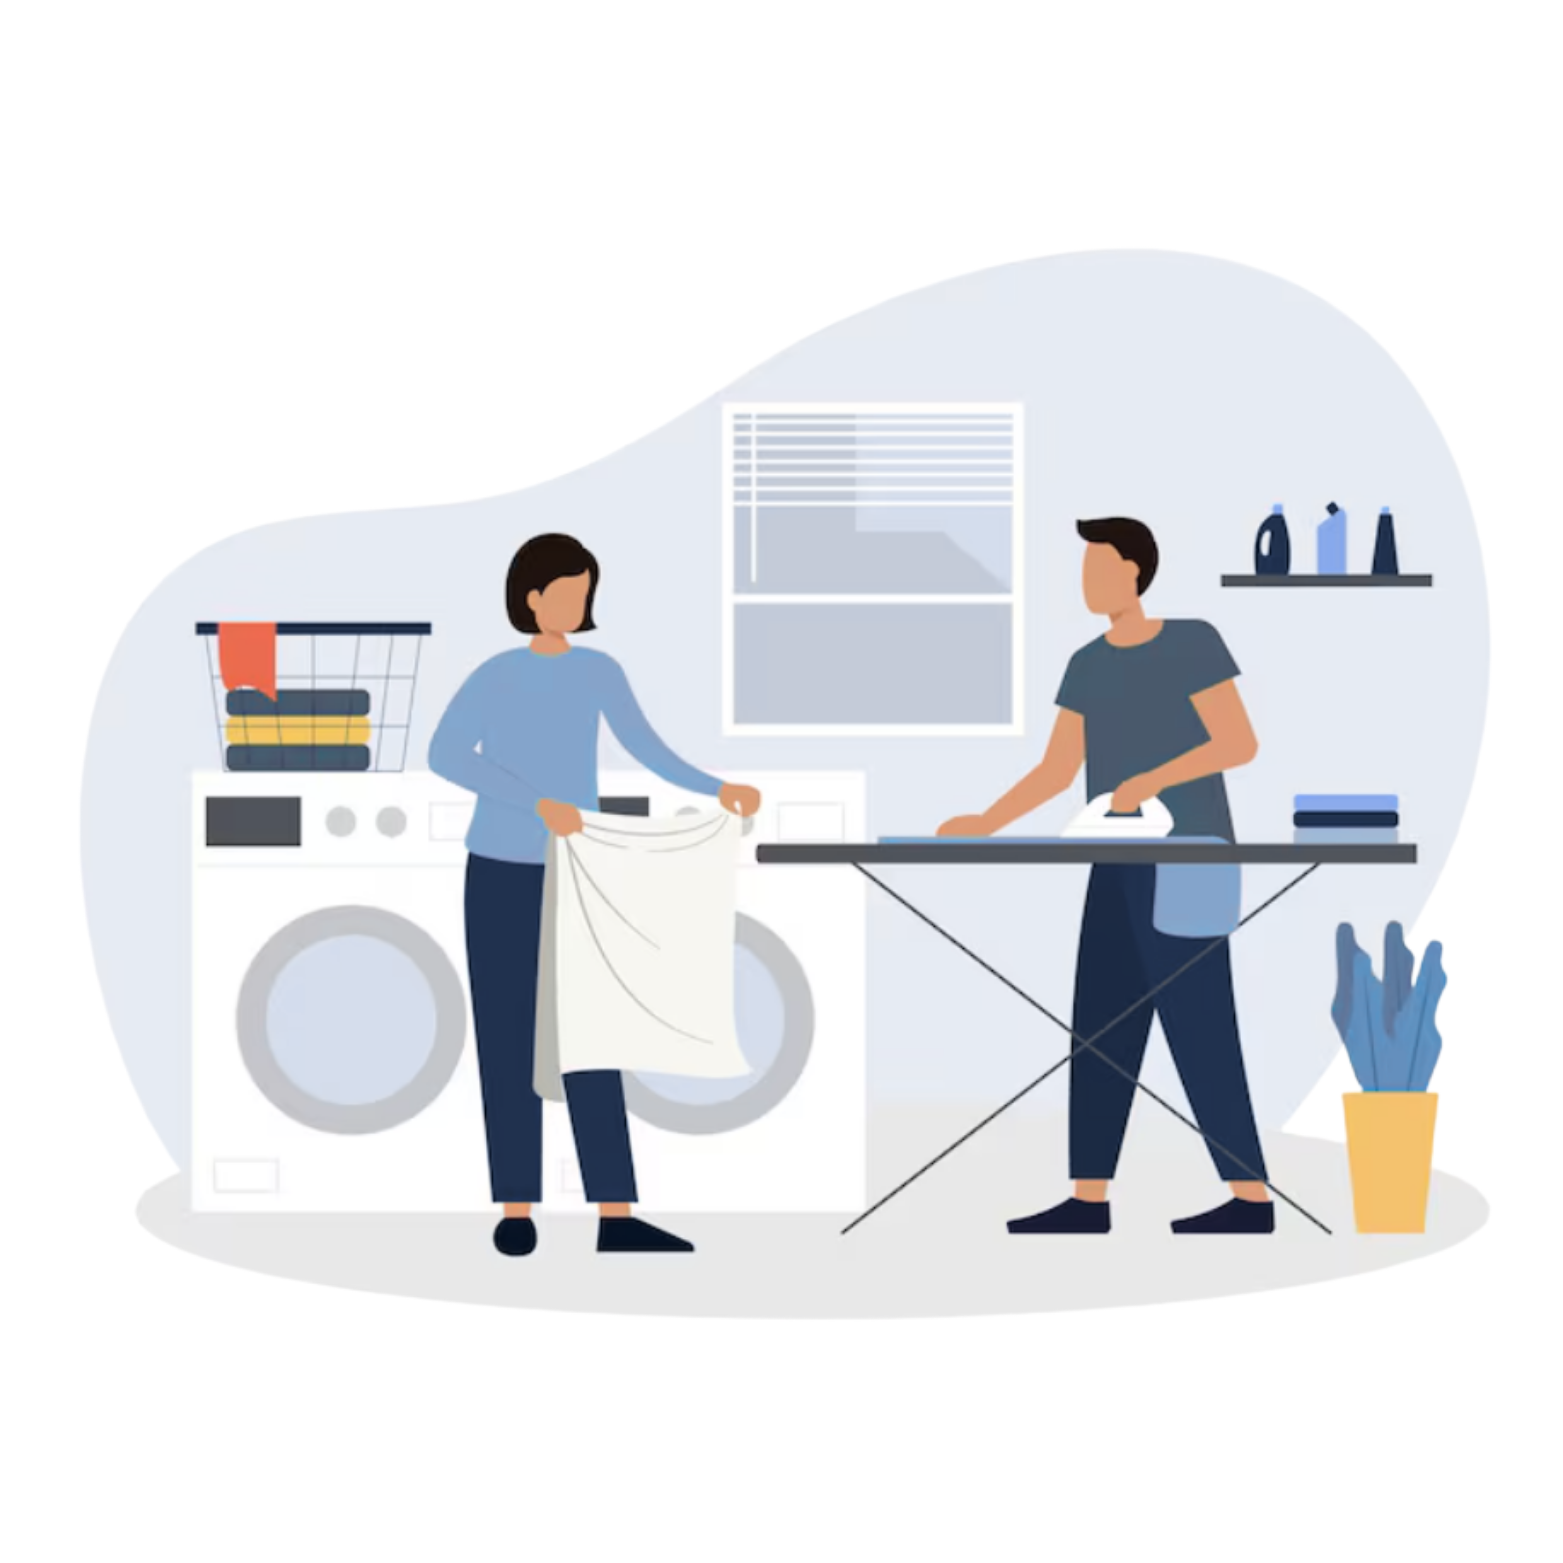
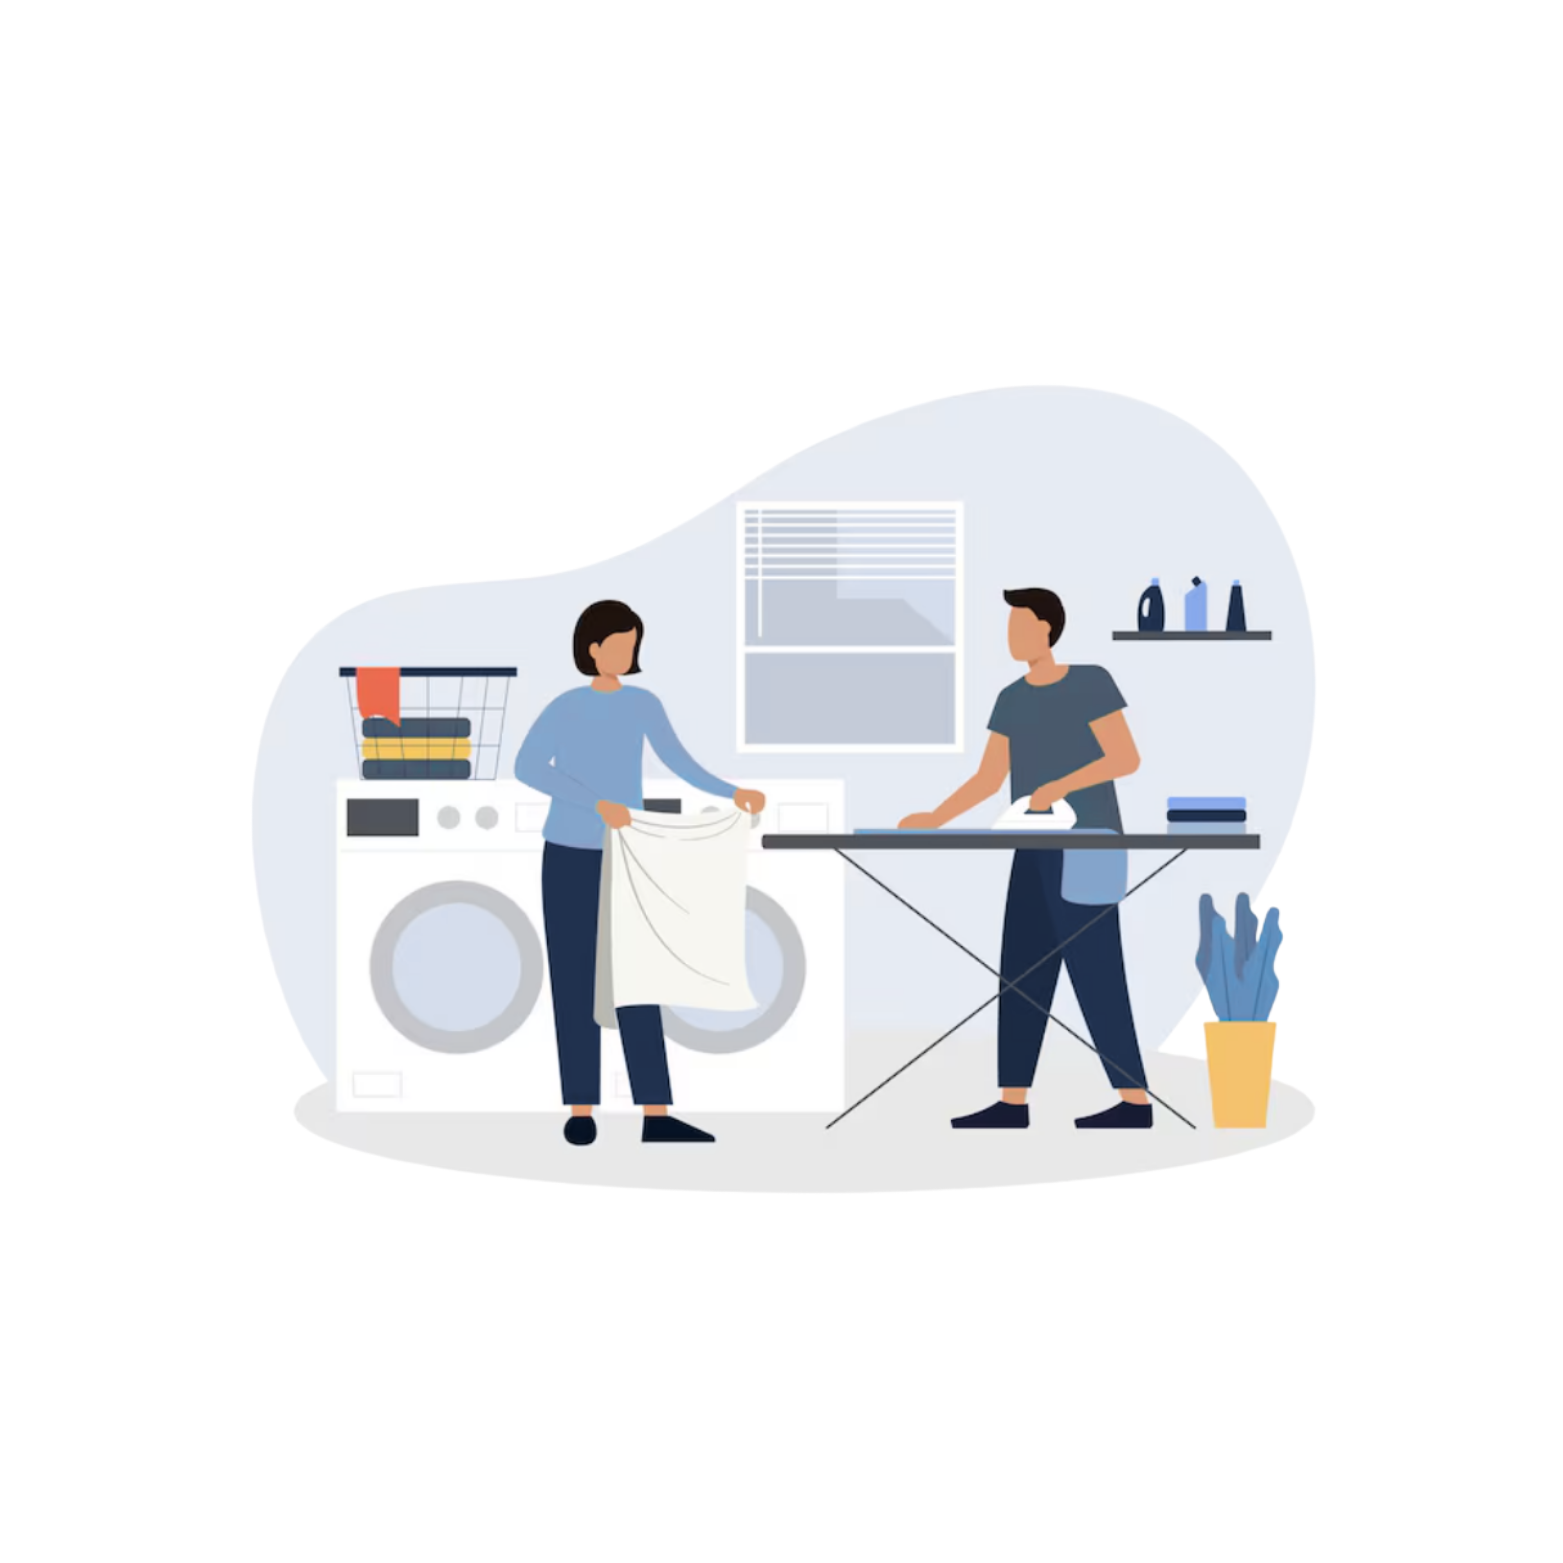
changed images by useing equal size of image for slider and service pages

diff --git a/src/mock.js b/src/mock.js
@@ -9,7 +9,7 @@ export const services = [
       "Fresh, clean uniforms for happy school days. Our school laundry service supports hygiene, comfort, and discipline by ensuring uniforms and bedding are washed with care and delivered on time.",
     icon: "school",
     // image: "/Residential school laundry service-01.png",
-    image: "/newImages2/school.png",
+    image: "/serviceimages/school.png",
     features: [
       "Designed with children’s comfort and safety in mind",
       "Consistent service throughout the academic year",
@@ -26,7 +26,7 @@ export const services = [
       "Clean, hygienic laundry made easy for students. We manage hostel and college laundry efficiently, so students focus on academics while we handle washing, care, and timely delivery.",
     icon: "graduationCap",
     // image: "/college.png",
-    image: "/newImages2/pu.png",
+    image: "/serviceimages/pu.png",
     features: [
       "More time for studies and campus life",
       "Hassle-free laundry with scheduled routines",
@@ -42,7 +42,7 @@ export const services = [
       "Clean, hygienic laundry made easy for students. We manage hostel and college laundry efficiently, so students focus on academics while we handle washing, care, and timely delivery.",
     icon: "graduationCap",
     // image: "/college.png",
-    image: "/newImages2/higher edu.png",
+    image: "/serviceimages/higher edu.png",
     features: [
       "More time for studies and campus life",
       "Hassle-free laundry with scheduled routines",
@@ -58,7 +58,7 @@ export const services = [
       "Our Hospitality & Industrial Institutions are designed for efficiency, hygiene, and scale. From workwear and uniforms to linens and protective clothing, we clean, sanitize, and deliver reliably—every time.",
     icon: "factory",
     // image: "/industry.png",
-    image: "/newImages2/industry.png",
+    image: "/serviceimages/industry.png",
     features: [
       "High-capacity handling for large laundry volumes",
       "Consistent hygiene and fabric longevity",

diff --git a/src/pages/Home.jsx b/src/pages/Home.jsx
@@ -10,10 +10,9 @@ const Home = () => {
   /* 🔁 HERO SLIDER LOGIC */
   // Exactly 3 images as requested
   const heroImages = [
-    "/imageforhomepageslider/pu_1.png",
-    "/imageforhomepageslider/school_2.png",
-    "/imageforhomepageslider/higher_edu_3.png",
-
+    "/imageforhomepageslider/pu.png",
+    "/imageforhomepageslider/school.png",
+    "/imageforhomepageslider/higher edu.png",
   ];
 
   const [currentHeroSlide, setCurrentHeroSlide] = React.useState(0);
